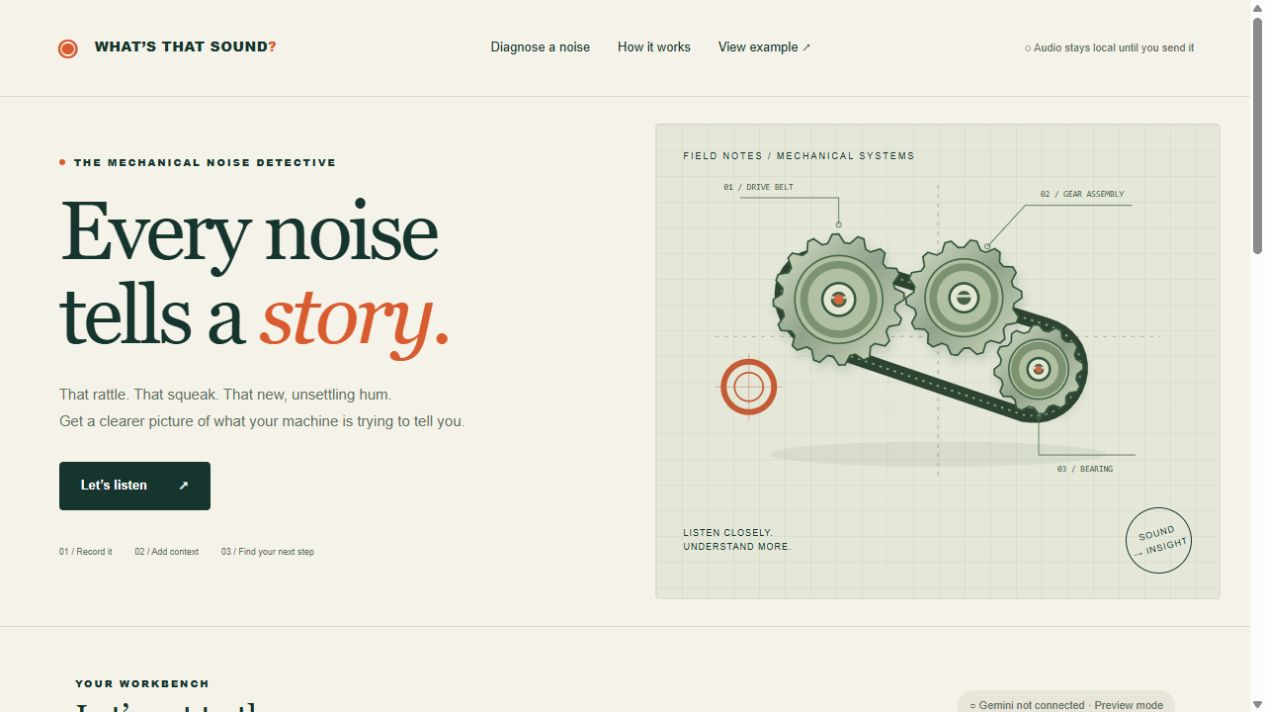
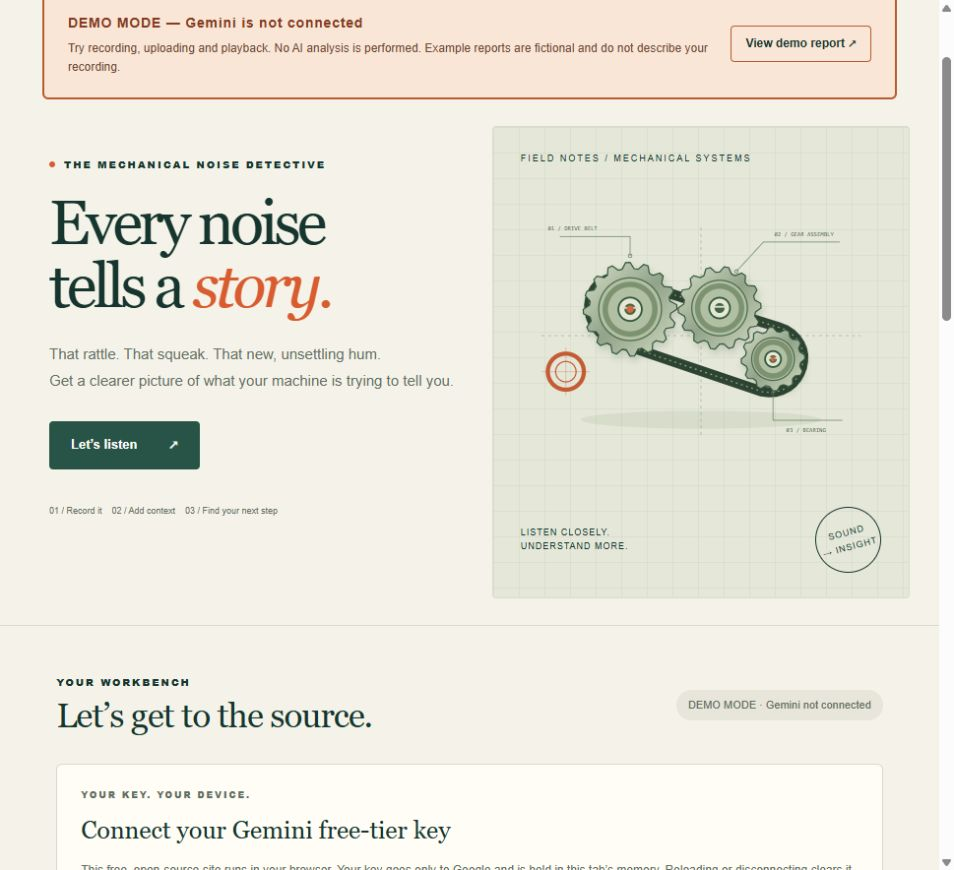
Show visitor-owned Gemini keys and local downloads in portfolio

diff --git a/index.html b/index.html
@@ -1,5 +1,5 @@
 <!doctype html>
-<html lang="en"><head><meta charset="utf-8"><meta name="viewport" content="width=device-width,initial-scale=1"><meta name="description" content="Explore TheFamousJC's open-source projects in one searchable portfolio."><title>TheFamousJC — Project Index</title><link rel="stylesheet" href="style.css?v=20261027-sound"><script src="data.js?v=20261027-sound" defer></script><script src="projects.js?v=20261027-sound" defer></script><script src="app.js?v=20261027-sound" defer></script></head>
+<html lang="en"><head><meta charset="utf-8"><meta name="viewport" content="width=device-width,initial-scale=1"><meta name="description" content="Explore TheFamousJC's open-source projects in one searchable portfolio."><title>TheFamousJC — Project Index</title><link rel="stylesheet" href="style.css?v=20261027-sound-byok"><script src="data.js?v=20261027-sound-byok" defer></script><script src="projects.js?v=20261027-sound-byok" defer></script><script src="app.js?v=20261027-sound-byok" defer></script></head>
 <body><header><a class="brand" href="#">JC<span> / PROJECT INDEX</span></a><a href="https://github.com/TheFamousJC" target="_blank" rel="noopener noreferrer">GitHub ↗</a></header><main><section class="hero"><div><p class="eyebrow">THEFAMOUSJC / OPEN SOURCE</p><h1>Ideas become<br><em>things you can explore.</em></h1><p class="intro">A single place for the projects, experiments, and tools on my GitHub.</p><a class="primary" href="#projects">Explore the projects ↓</a></div><aside><div class="orbit">{ jc }</div><p>THE PROJECT COLLECTION</p><div class="stats"><div><strong id="total">11</strong><span>repositories</span></div><div><strong id="languages">3</strong><span>languages</span></div></div></aside></section><section id="projects"><div class="section-heading"><div><p class="eyebrow">THE COLLECTION</p><h2>All projects<span class="dot">.</span></h2></div><p id="status" role="status">Saved GitHub snapshot · refreshing…</p></div><div class="toolbar"><label class="search"><span>⌕</span><input id="search" type="search" placeholder="Search projects…" aria-label="Search projects"></label><label class="sort-label">Sort <select id="sort"><option value="updated">Recently updated</option><option value="stars">Most starred</option><option value="name">Name A–Z</option></select></label></div><div class="filter-row" id="filters" aria-label="Filter by language"></div><p id="count" class="count" aria-live="polite"></p><div id="grid" class="grid"></div><p id="empty" hidden>No projects match. Try another search or language.</p></section><section class="closing"><p class="eyebrow">ALWAYS A WORK IN PROGRESS</p><h2>See what’s next.</h2><a href="https://github.com/TheFamousJC" target="_blank" rel="noopener noreferrer">Follow along on GitHub ↗</a></section></main><footer><span>THEFAMOUSJC</span><span>Built around open source. Powered by curiosity.</span><a href="#">Back to top ↑</a></footer></body></html>
 
 

diff --git a/projects.js b/projects.js
@@ -1,6 +1,6 @@
 // Editorial descriptions and verified public links, reviewed October 27, 2026.
 window.PROJECT_DETAILS = {
-  'whats-that-sound': {title:'What’s That Sound?', description:'Record or upload unusual mechanical noises, add machine details, and explore a troubleshooting report with possible causes, follow-up questions, and DIY difficulty.', note:'Interface preview · live Gemini analysis awaits free-tier setup', label:'Explore preview', screenshotNote:'INTERFACE PREVIEW ↗', image:'preview-whats-that-sound.png'},
+  'whats-that-sound': {title:'What’s That Sound?', description:'Record or upload mechanical noises and analyze them directly with your own Gemini key. Explore possible causes, follow-up questions, and DIY difficulty; save recordings and reports locally.', note:'Bring your own free-tier Gemini key · key stays in tab memory · MIT open source', label:'Open app', screenshotNote:'YOUR KEY · LOCAL FILES ↗', image:'preview-whats-that-sound.png'},
   world: {title:'Escape Atlas', description:'A map-based survival game. Plan routes, decode missions, evade pursuit, and manage time, money, and energy across worldwide stories.'},
   classicgames: {title:'Orbit Games', description:'Five reimagined arcade games with keyboard and touch controls, escalating levels, and local high scores. Pick a game and start playing.'},
   Panorama: {title:'Panorama', description:'Capture thoughts, reflect on patterns, and choose your next step. Keep notes in your browser and take selected thoughts to My Dot for a review.'},
